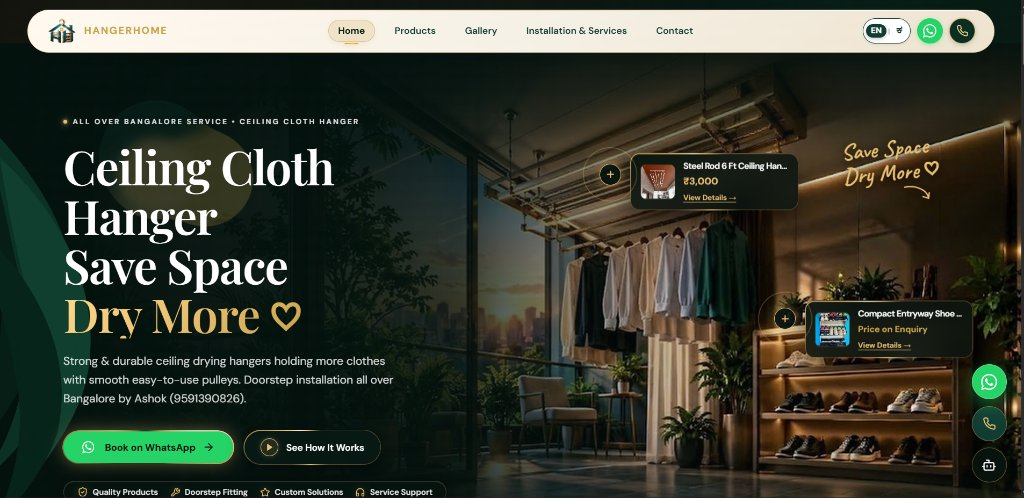
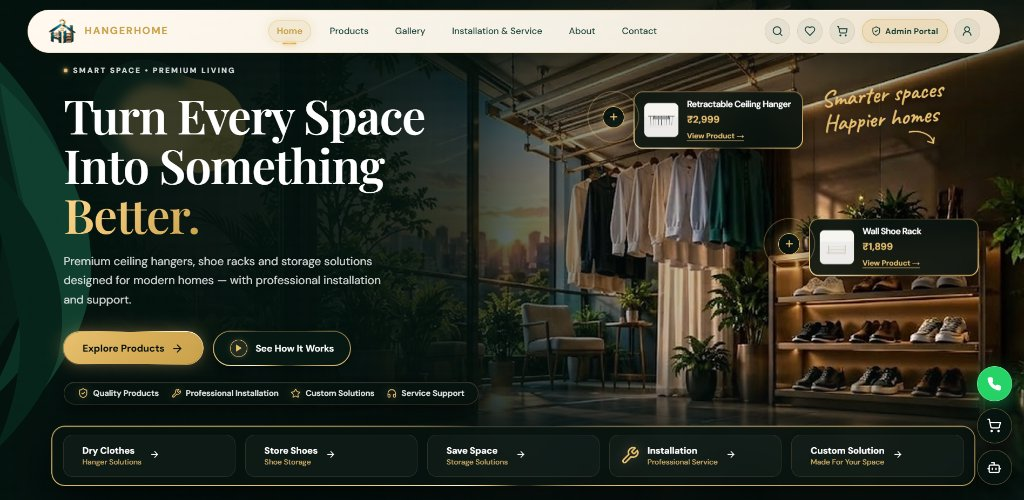
feat: update HangerHome luxury e-commerce and home installation case study with high-res screenshot and dual-mode architecture

diff --git a/lib/projects.ts b/lib/projects.ts
@@ -936,24 +936,85 @@ export const projects: Project[] = [
   },
   {
     slug: "hanger-commerce",
-    title: "HangerHome",
-    tagline: "Custom ceiling cloth drying hangers and smart space-saving home organization platform with doorstep installation across Bengaluru",
+    title: "HangerHome — Luxury E-Commerce & Home Installation Platform",
+    tagline: "Luxury drying systems storefront and 16-module RBAC admin portal with client-side REST simulation and Vercel serverless deployment",
     category: "company",
     status: "realtime",
-    role: "Developer, PrimePro.ai",
-    period: "2024 – 2025",
+    backend: "simulated-api",
+    role: "Full-Stack Lead Engineer / Architect, PrimePro.ai",
+    period: "Commercial Project (PrimePro.ai)",
     cover: "/media/sites/hangerhome.png",
     accent: "#15803D",
-    accent2: "#F59E0B",
-    features: [
-      "Interactive home product showcase with hot-spot product inspection for steel rod 6ft ceiling hangers and compact entryway shoe racks",
-      "Doorstep installation scheduling engine covering residential apartments and villas across all zones in Bengaluru",
-      "Instant WhatsApp booking integration ('Book on WhatsApp') and interactive 'See How It Works' video walkthrough modal",
-      "Bilingual language toggle (English & Kannada) with direct technician call routing (9591390826)",
-      "Customer reviews, space-saving tips, and custom balcony/utility drying solutions catalog",
+    accent2: "#D97706",
+    featured: true,
+    stack: [
+      "React 18.3",
+      "Vite 6.0",
+      "React Router DOM 7.1",
+      "Framer Motion 11.15",
+      "Recharts 3.10",
+      "Lucide React",
+      "Tokens CSS Design System",
+      "Client-Side REST Dispatcher",
+      "LocalStorage (hh_demo_db_v1)",
+      "Node.js & Express 4.21",
+      "MongoDB & Mongoose 8.9",
+      "JWT & Bcryptjs",
+      "Zod Validation",
+      "Sharp & Multer",
+      "Vercel",
     ],
-    stack: ["React", "Node.js", "Express", "Tailwind CSS", "WhatsApp Concierge", "Vercel"],
-    links: {},
+    features: [
+      "Dark emerald and champagne-gold luxury e-commerce storefront with 3-level category hierarchy (Ceiling Hangers, Wall Racks, Space Savers, Accessories)",
+      "Interactive product inspection with hot-spot product highlights, high-resolution galleries, verified customer reviews, and dynamic stock countdowns",
+      "Frictionless checkout pipeline with guest/customer cart persistence, tiered promo code validation (WELCOME10, HANGERHOME500, FESTIVE15), and optional +₹499 professional installation toggle",
+      "Simulated multi-method Razorpay payment gateway modal supporting UPI/QR code, Card, and Netbanking with instant transaction verification",
+      "On-site installation booking engine (/service-booking) and bulk commercial quotation generator (/quote) with WhatsApp concierge assistance",
+      "16-Module RBAC Admin Command Center: Role-Based Access Control dividing Super Admin (full control) and Operations Staff (Orders, Enquiries, Bookings, Gallery)",
+      "Recharts analytics dashboard with monthly revenue Area charts, order volume Bar charts, category distribution Pie charts, and 1-click demo database reset",
+      "1-Click instant demo onboarding for both Customer (rahul.verma@example.com / Customer@123) and Super Admin (admin@example.com / Admin@123)",
+    ],
+    highlights: [
+      "Zero-backend client-side REST simulation engine (IS_DEMO_MODE) running 100% serverlessly on Vercel",
+      "16-module RBAC Admin Portal with Recharts data visualization and audit trail logging",
+      "Multi-method simulated Razorpay checkout with dynamic stock decrement and printable invoices",
+      "Custom CSS design token architecture (emerald & gold) with Framer Motion micro-interactions",
+      "Complete switchable Express 4 + MongoDB/Mongoose backend architecture in repository",
+    ],
+    impact:
+      "Engineered a luxury retail and home installation web platform combining high-converting direct checkout with a 16-module admin ERP, capable of running fully offline or cloud-connected with zero spin-up latency.",
+    realVsSimulated:
+      "Dual-Mode Architecture: Engineered with a custom client-side REST dispatcher (api.js -> demoServer.js) using localStorage ('hh_demo_db_v1') and HTML5 Canvas image resizing on Vercel. Can be switched to a production Node.js/Express + MongoDB backend via a single environment flag (VITE_USE_LIVE_API=true).",
+    challenges: [
+      {
+        problem:
+          "Providing an instant, zero-cost, fully functional recruiter demo on Vercel without relying on sleeping MongoDB Atlas free-tier clusters.",
+        solution:
+          "Engineered an in-browser REST router (demoServer.js) backed by pre-seeded localStorage (hh_demo_db_v1), supporting full CRUD, JWT session simulation, and 1-click database resets.",
+      },
+      {
+        problem:
+          "Handling product and gallery image uploads on a serverless static frontend without cloud S3 bucket credentials.",
+        solution:
+          "Implemented a client-side HTML5 Canvas image downsampling utility that converts uploaded files into optimized base64 DataURLs before storing in demo localStorage.",
+      },
+      {
+        problem:
+          "Strict Role-Based Access Control (RBAC) across 16 admin modules without server-side middleware verification.",
+        solution:
+          "Architected declarative React Router v7 ProtectedRoute wrappers and API-level permission checks enforcing strict separation between Super Admin and Operations Staff.",
+      },
+      {
+        problem:
+          "Managing complex promotional coupon rules (minimum order value, percentage vs flat discounts, single-use limits) client-side.",
+        solution:
+          "Engineered a centralized pricing and coupon calculation engine with atomic validation rules against active cart subtotals and saved customer usage records.",
+      },
+    ],
+    links: {
+      live: "https://hangerhome.vercel.app",
+      repo: "https://github.com/Dhanush596/hangerhome",
+    },
   },
   {
     slug: "sri-manjunatha-batteries",
